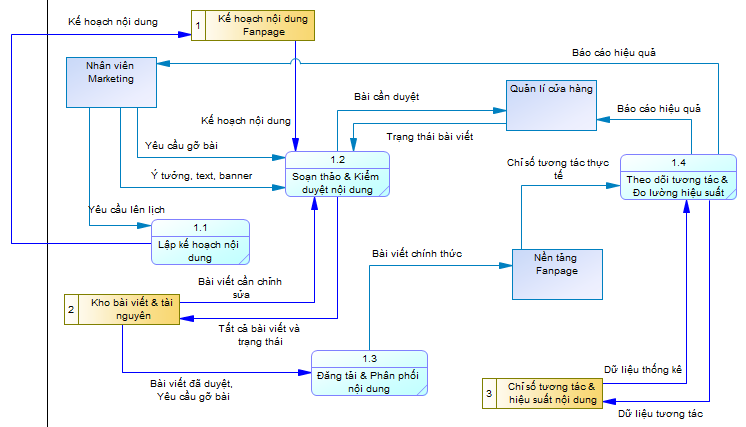
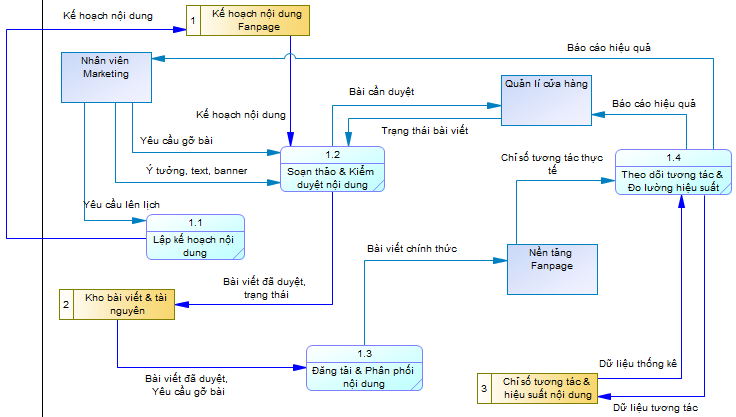
docs: Update question, DFD muc 1 & Add DFD muc 2

Changed region(s): [[0.0, 0.0, 1.0, 0.9976], [0.5, 0.5612, 0.8125, 0.6547], [0.6875, 0.6859, 0.8125, 0.717]]

diff --git a/README.md b/README.md
@@ -430,6 +430,15 @@ Trả lời: Hệ thống tự động tổng kết bảng xếp hạng chung cu
 >
 > Bổ sung câu hỏi và trả lời về tiến trình, luồng dữ liệu, kho dữ liệu và thực thể ngoài.
 
+Câu hỏi 1: Xác định các tác nhân ngoài tương tác trực tiếp với chức năng "Quản lý nội dung Fanpage"?
+Trả lời: Các tác nhân ngoài bao gồm: Nhân viên Marketing (lên kế hoạch, soạn thảo và gửi yêu cầu đăng bài), Quản lý cửa hàng (kiểm duyệt, phê duyệt hoặc yêu cầu chỉnh sửa nội dung), và Nền tảng Fanpage (môi trường mạng xã hội nhận bài viết hiển thị và trả về dữ liệu tương tác).   
+Câu hỏi 2: Kho lưu trữ dữ liệu chính nào được sử dụng trong quá trình quản lý nội dung Fanpage?
+Trả lời: Các kho dữ liệu chính gồm: Kho kế hoạch nội dung Fanpage (D16), Kho bài viết & tài nguyên truyền thông (D17), và Kho chỉ số tương tác & hiệu suất nội dung (D18).   
+Câu hỏi 3: Luồng dữ liệu chính đi từ Nhân viên Marketing vào hệ thống trong quy trình này là gì?
+Trả lời: Kế hoạch nội dung định kỳ, ý tưởng, văn bản, hình ảnh/banner thiết kế, yêu cầu lên lịch đăng bài và các yêu cầu gỡ bài hoặc cập nhật phát sinh.   
+Câu hỏi 4: Nhiệm vụ của tiến trình theo dõi và đo lường hiệu suất trong mô hình là gì?
+Trả lời: Hệ thống tự động thu thập các chỉ số tương tác thực tế (lượt tiếp cận, thích, bình luận, chia sẻ) từ nền tảng Fanpage, ghi nhận vào kho dữ liệu hiệu suất để tổng hợp báo cáo gửi về cho nhân viên marketing và quản lý cửa hàng.
+
 #### Mô hình mức ngữ cảnh (Context Level)
 ![DFD Mức ngữ cảnh - Quản lí nội dung Fanpage](./diagram_sketch/quan_li_noi_dung_fanpage/DFD_muc0_Quan_li_Fanpage.png)
 > [!NOTE]
@@ -450,7 +459,13 @@ Trả lời: Hệ thống tự động tổng kết bảng xếp hạng chung cu
 > **CHỜ BỔ SUNG**
 >
 > Bổ sung sơ đồ phân rã các tiến trình mức đỉnh.
+![DFD Mức 2 - 1.1 Lập kế hoạch nội dung](./diagram_sketch/quan_li_noi_dung_fanpage/DFD_muc2_1_LapKeHoach.svg)
 
+![DFD Mức 2 - 1.2 Soạn thảo và kiểm duyệt nội dung](./diagram_sketch/quan_li_noi_dung_fanpage/DFD_muc2_2_SoanThaoKiemDuyet.svg)
+
+![DFD Mức 2 - 1.3 Đăng tải và phân phối nội dung](./diagram_sketch/quan_li_noi_dung_fanpage/DFD_muc2_3_DangTaiPhanPhoi.svg)
+
+![DFD Mức 2 - 1.4 Theo dõi tương tác và đo lường hiệu suất](./diagram_sketch/quan_li_noi_dung_fanpage/DFD_muc2_4_TheoDoiTuongTac.svg)
 ---
 
 ### Chức năng: Quản lý order nước ngoài
